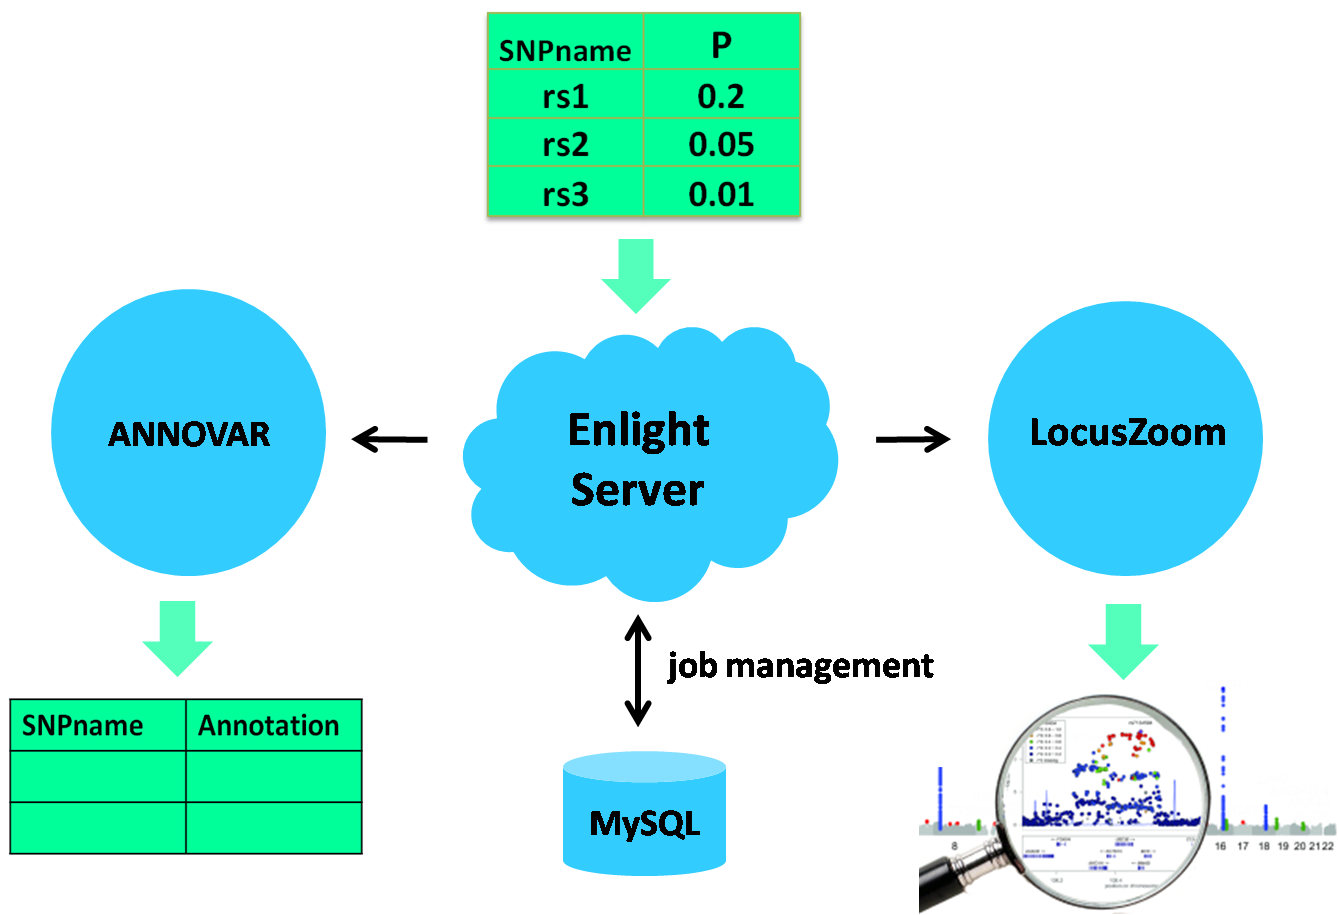
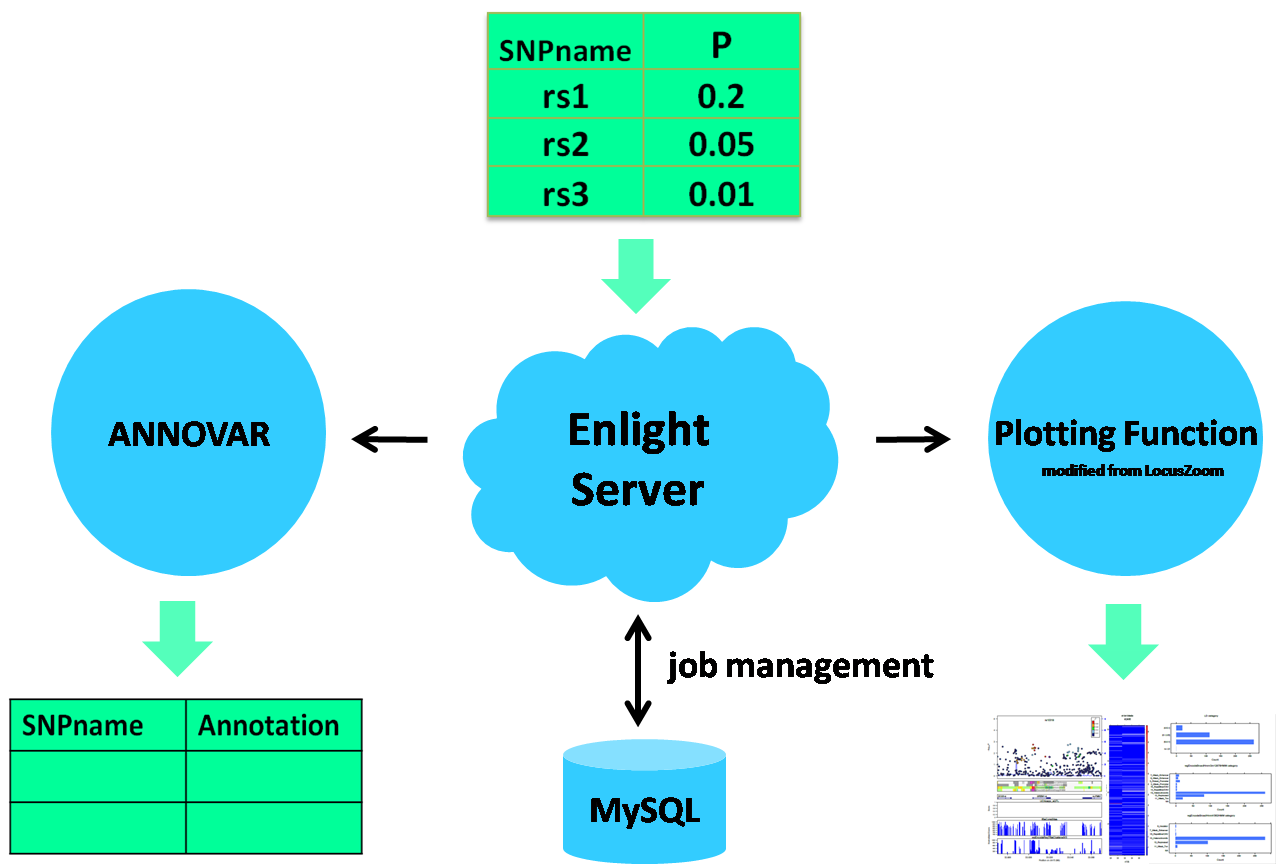
change help figures and desc

diff --git a/template/pages/help.html b/template/pages/help.html
@@ -6,7 +6,7 @@
 	<meta name="viewport" content="width=device-width, initial-scale=1">
 	<meta name="description" content="">
 	<meta name="author" content="">
-	<link rel="icon" href="images/favicon.ico">
+	<link rel="icon" href="../images/favicon.ico">
 
 	<title>Enlight</title>
 
@@ -84,10 +84,14 @@ Enlight takes at least two columns of input, the SNP name and P value. After sub
 	<h2 id="exampleinput">Example Input</h2>
 	<img width=600 height=340 src="../images/enlight_example_input.png" class='center'>
 	<h2 id="exampleoutput_plot">Example Output (plot)</h2>
-	<p><b>An example plot showing 1MB and 100KB region around rs10318, which is a known variant showing genome-wide significant association with colorectal cancer. After zooming in, DNase Hypersensitivity Sites (DHS) can be visually identified near some variants that are in high LD with the index SNP. These SNPs might be good candidates for causal variants. Plot summary and legend (not shown here) can be found on the second page of your result PDF file. The rest of the pages are summary plots showing number of variants in each LD interval, chromHMM category, or the variant count within different LD interval for each annotation dat track.</b></p>
+	<p>
+	A typical plot is as follows, showing the association signals for rs2071278 and nearby loci from Well-come Trust Case Control Consortium (WTCCC) Rheumatoid Arthritis study. The color stripe shows the chromHMM segmentation result which combines multiple epigenetic chromatin marks (legend shown below). The three SNPs rs204991, rs204990, rs204989 (all yellow), which are in high LD with the reference SNP, show up in a proposed enhancer region in blood cell lines, GM12878 and K562, but not in non-blood cell lines, HepG2 or HSMM. The UChicago_eQTL panel shows association signal based on data from eQTL browser at University of Chicago. The wgEncodeRegTfbsClusteredV3 panel summarizes a large collection of transcription factor ChIP-seq results, and tfbsConsSites panel describes TFBS conservation across human/mouse/rat.</p>
+	<p>rs2071278 is genome-wide significantly associated with serum complement C3 and C4 levels (Yang, et al., 2012), important measurements in assessment of rheumatoid arthritis (Makinde, et al., 1989). Therefore, rs2071278 is possibly a proxy SNP tagging nearby functional variants. For instance, three SNPs rs204991, rs204990, rs204989 (yellow), all in high LD with rs2071278 (1000 genomes, European population, 2012), are shown to be significantly associated with expression of human leukocyte antigen (HLA) genes by microarray (Zeller, et al., 2010). This finding partly explains their strong associations with rheumatoid arthritis in WTCCC study(Wellcome Trust Case Control, 2007). When strong associations appear near known GWAS hit and are surrounded by interesting epigenetic and other functional features, they perhaps suggest functional importance.
+	</p>
 	<br />
-	<img width=900 height=1400 src="../images/enlight_example_output.png" class='center'>
-	<img width=900 height=700 src="../images/enlight_example_output_summary.png" class='center'>
+	<img width=900 height=1400 id="enlight_example_output" src="../images/enlight_example_output.png" class='center'>
+	<img width=900 height=1400 id="enlight_example_output_heatmap" src="../images/enlight_example_output_heatmap.png" class='center'>
+	<img width=900 height=700 id="enlight_example_output_summary" src="../images/enlight_example_output_summary.png" class='center'>
 	<h2 id="exampleoutput_text">Example Text Annotation</h2>
 	<p><b>If you opt to output ANNOVAR annotation, you will get a '*.hg19_multianno.html' on result page. This is the text annotation for each variant in the input file. ANNOVAR will output gene annotation, minor allele frequency (MAF) from 1000 Genomes project as well as selected UCSC datatracks and other annotation info (eg custome BED file, eQTL etc). If your input file does not have the 5 columns required by ANNOVAR (chr,start,end,alt,ref), Enlight will first convert rsIDs to chromosomal positions according to dbSNP137, and then run annotation.  Sometimes, you will see *.invalid_input files on result page, they contain lines that can't by recognized by ANNOVAR, e.g. lines that don't have chr/start/end.</b></p>
 	<br />

diff --git a/template/pages/example.html b/template/pages/example.html
@@ -6,7 +6,7 @@
 	<meta name="viewport" content="width=device-width, initial-scale=1">
 	<meta name="description" content="">
 	<meta name="author" content="">
-	<link rel="icon" href="images/favicon.ico">
+	<link rel="icon" href="../images/favicon.ico">
 
 	<title>Enlight</title>
 

diff --git a/template/pages/faq.html b/template/pages/faq.html
@@ -6,7 +6,7 @@
 	<meta name="viewport" content="width=device-width, initial-scale=1">
 	<meta name="description" content="">
 	<meta name="author" content="">
-	<link rel="icon" href="images/favicon.ico">
+	<link rel="icon" href="../images/favicon.ico">
 
 	<title>Enlight</title>
 

diff --git a/template/pages/tutorial.html b/template/pages/tutorial.html
@@ -6,7 +6,7 @@
 	<meta name="viewport" content="width=device-width, initial-scale=1">
 	<meta name="description" content="">
 	<meta name="author" content="">
-	<link rel="icon" href="images/favicon.ico">
+	<link rel="icon" href="../images/favicon.ico">
 
 	<title>Enlight</title>
 
